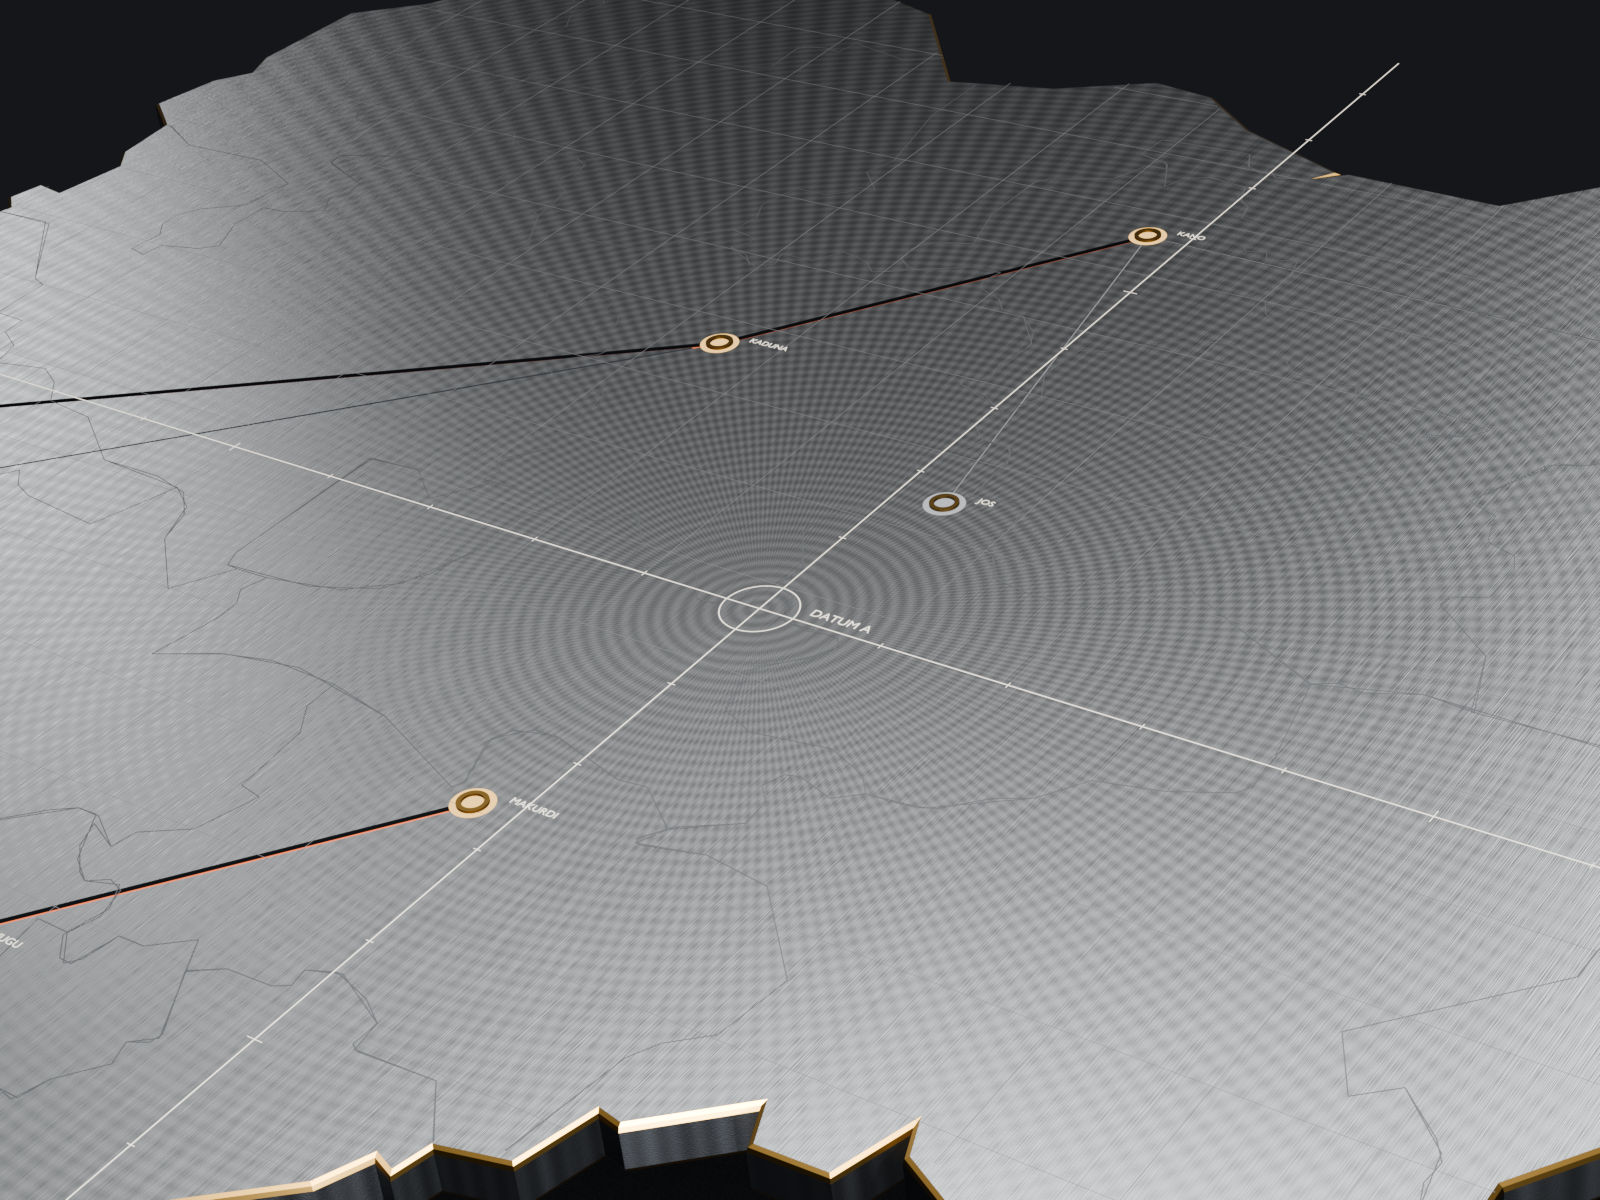
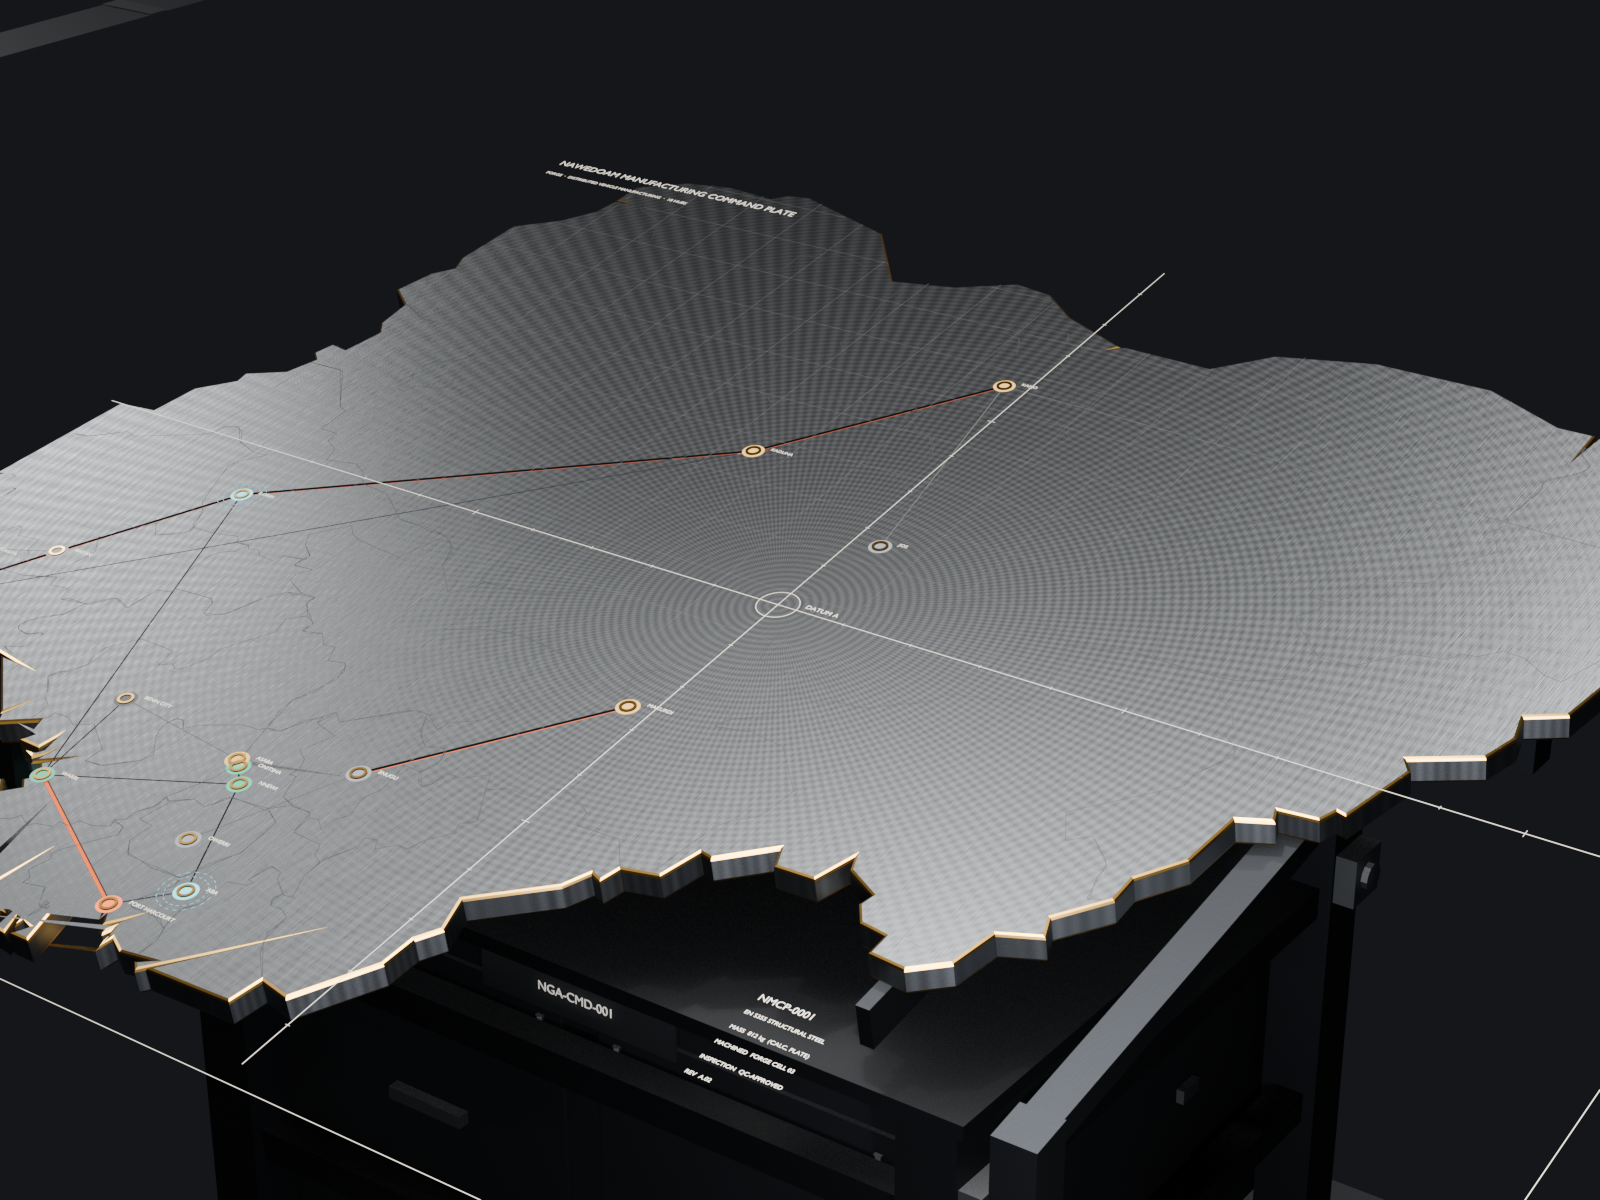
Fix #3+#4: engraved cities + leaders on plate; remove flat SVG NigeriaMap

diff --git a/src/pages/Showcase.jsx b/src/pages/Showcase.jsx
@@ -9,7 +9,6 @@ import WhyForge from "../components/showcase/WhyForge";
 import EcosystemSystem from "../components/forge/EcosystemSystem";
 import AssemblyEvent from "../components/forge/AssemblyEvent";
 import HowItWorks from "../components/showcase/HowItWorks";
-import NigeriaMap from "../components/manufacturing/NigeriaMap";
 import BoardPreview from "../components/forge/BoardPreview";
 import ImpactStats from "../components/showcase/ImpactStats";
 import GeoDivider from "../components/forge/GeoDivider";
@@ -79,8 +78,8 @@ export default function Showcase() {
       {/* 05 — MANUFACTURING PIPELINE */}
       <HowItWorks />
 
-      {/* 06 — NIGERIA MANUFACTURING COMMAND CENTER */}
-      <NigeriaMap />
+      {/* 06 — the Nigeria command surface is now the machined NMCP plate
+             (NMCP Arrival + National Grid room). Flat SVG map removed. */}
 
       {/* 07 — LIVE BUILD BOARD PREVIEW */}
       <BoardPreview />
